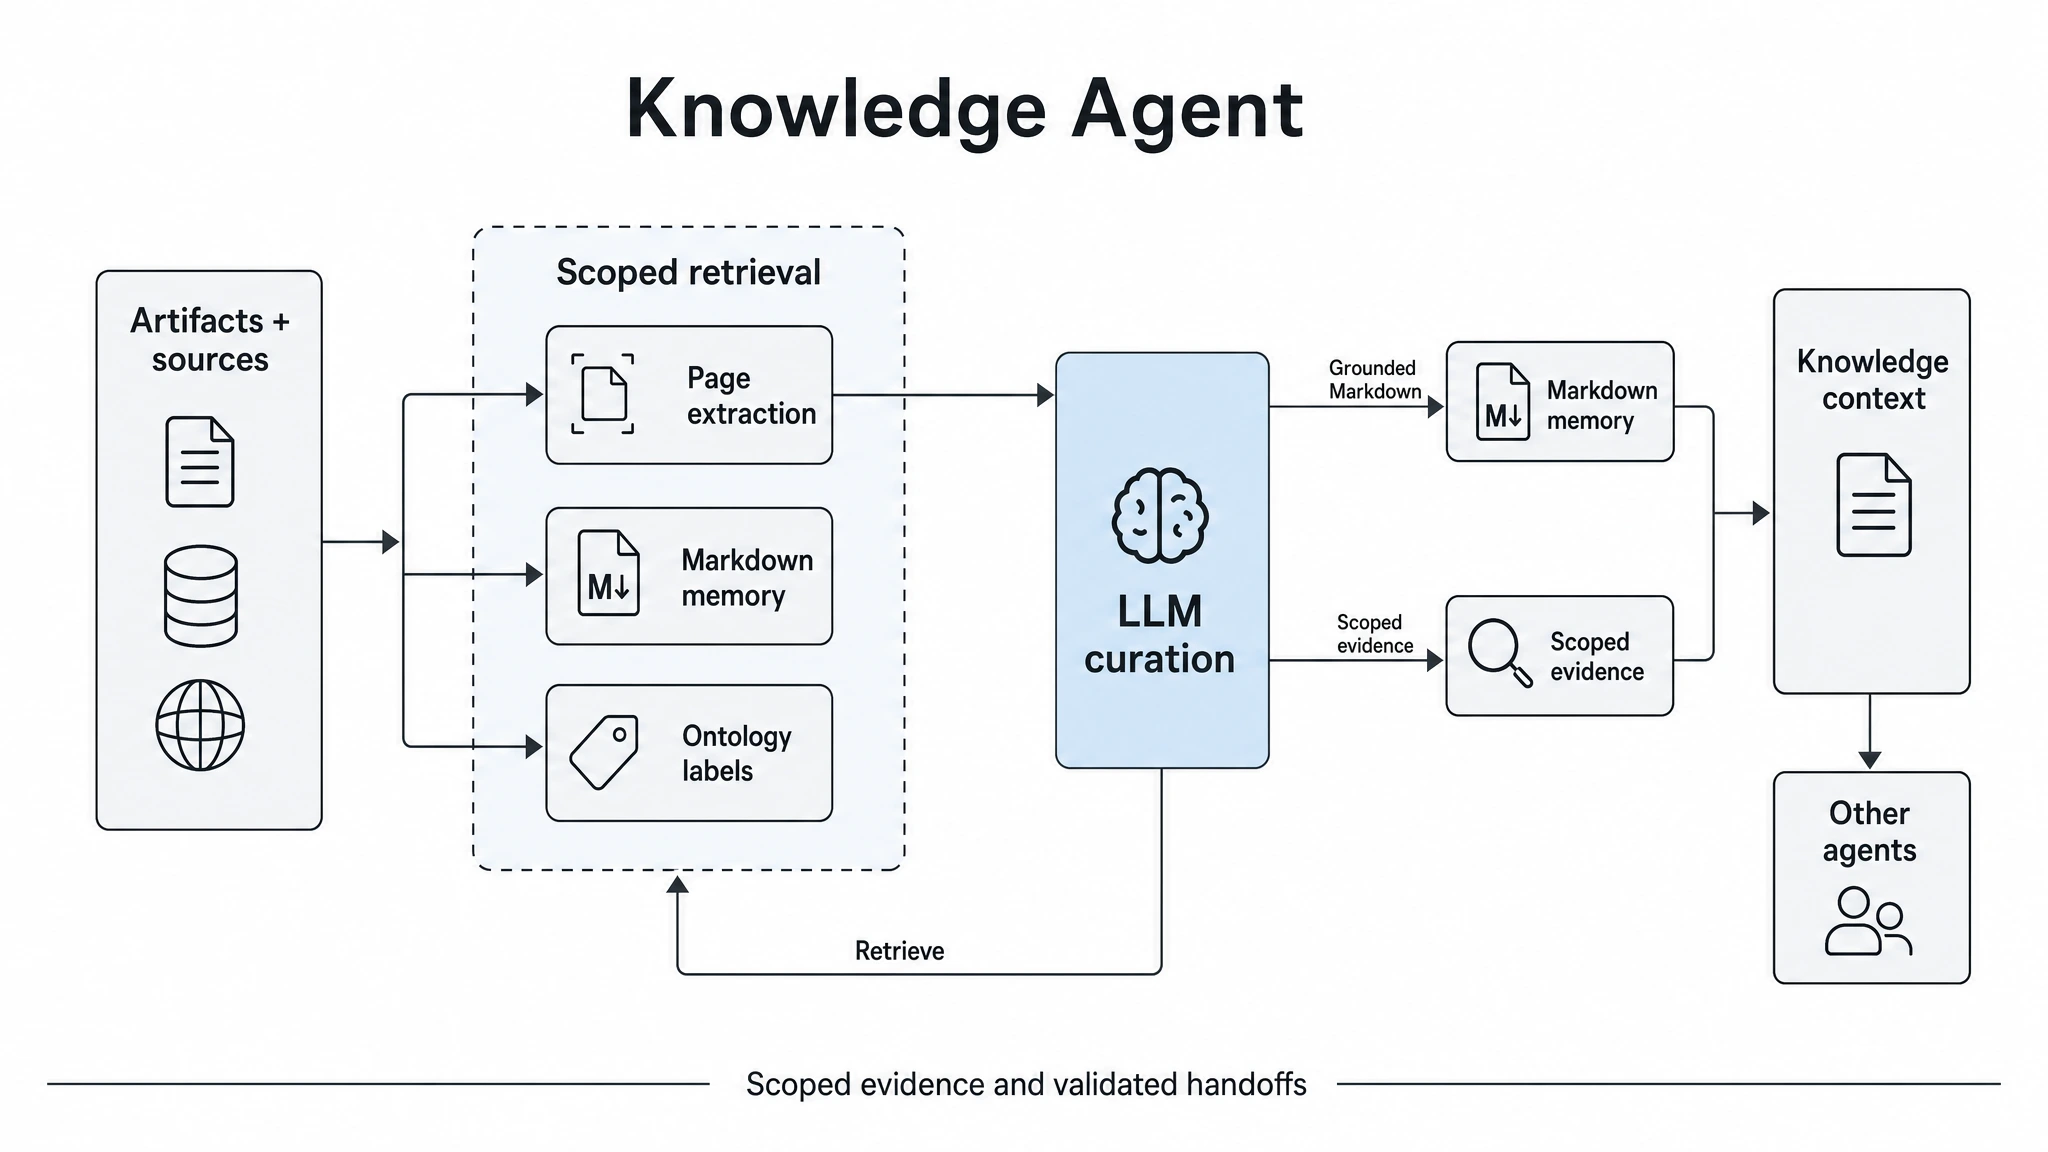
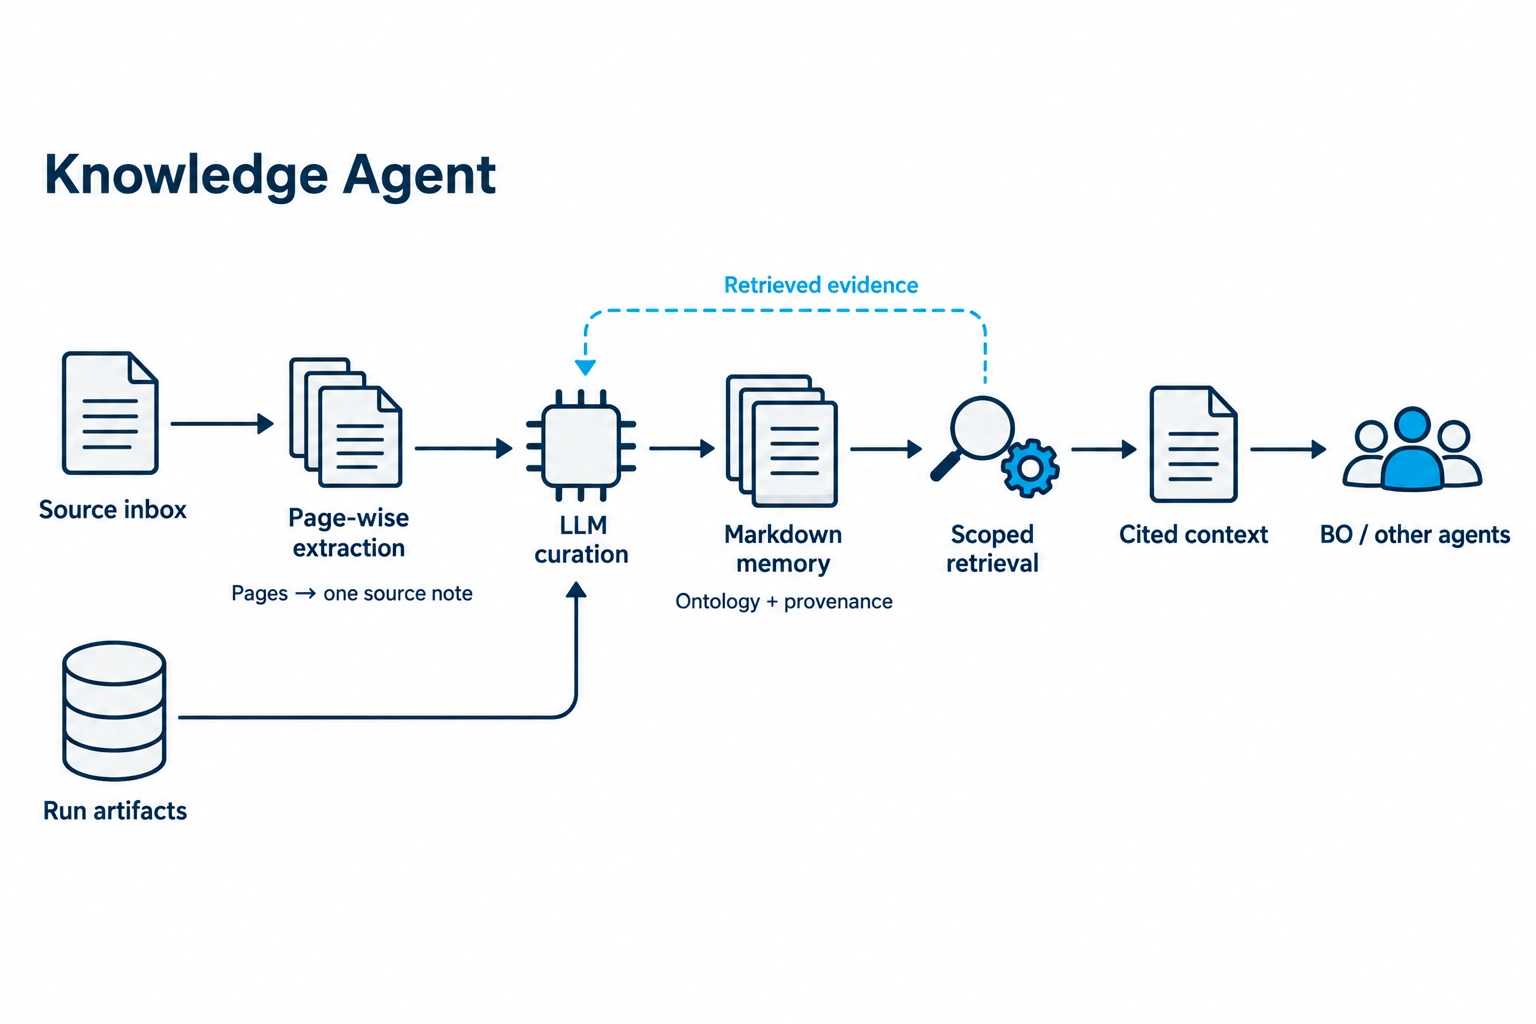
docs: refresh generated architecture figures with Image 2.5 Sunburst

diff --git a/docs/assets/presentation/README.md b/docs/assets/presentation/README.md
@@ -15,23 +15,34 @@ supersedes: []
 The representative images are conceptual architecture overviews. Exact runtime
 flows remain in the editable SVG/DOT figures in each agent reference.
 
-Generated through the imagegen skill's bundled CLI/API workflow, using
-**GPT Image 2** unless noted below, at 2048 × 1152 unless specified, high quality,
-WebP. No experiment images or numerical
-results were synthesized for the paper evidence package.
+The active generated figures use **GPT Image 2.5 Sunburst** through the imagegen
+skill's bundled CLI/API workflow: 1536 × 1024, high quality, WebP. No experiment
+images or numerical results were synthesized for the paper evidence package.
 
 | Asset | Prompt source | Used in |
 |---|---|---|
-| Multi-agent laboratory transformation | [Sunburst prompt](laboratory-transformation-sunburst.txt) · [Flat-style refinement](laboratory-transformation-sunburst-refinement.txt) · [Diagonal layout and bullet alignment](laboratory-transformation-sunburst-diagonal.txt) | Root README below the logo; GPT Image 2.5 Sunburst, 1536 × 1024, high quality, WebP; supplied layout sketch and AX4LAB logo as image inputs |
-| Previous existing-laboratory transformation (superseded) | [Transformation prompt](laboratory-transformation.txt) | Retained source history; GPT Image 2, 1920 × 960, no longer embedded in the root README |
-| Framework overview, agent architecture, integration architecture | [Three-figure prompts](architecture-figures.jsonl) | Root README System Architecture; three independent 1920 × 960 figures, high quality, WebP |
-| Previous combined architecture (superseded) | [Initial prompt](orchestration-plan-architecture.txt) · [Graph refinement](orchestration-plan-architecture-revision.txt) · [Label correction](orchestration-plan-architecture-label-fix.txt) | Retained source history; no longer embedded in the root README |
-| Structured AI laboratory overview | [Hero prompt](hero-structured-ai.txt) | Korean overview, paper introduction; replaced by the transformation figure in the root README |
-| Ten agent role diagrams | [Batch prompts](image-prompts.jsonl) | [Agent references](../../agents/README.md) |
-| Vision capture-first diagram | [Vision prompt](vision-correction.txt) | Vision reference; supersedes its initial batch image |
+| Multi-agent laboratory transformation | [Sunburst prompt](laboratory-transformation-sunburst.txt) · [Flat-style refinement](laboratory-transformation-sunburst-refinement.txt) · [Diagonal layout and bullet alignment](laboratory-transformation-sunburst-diagonal.txt) | Root README Graphical Abstract, Korean overview and paper introduction; approved image retained unchanged |
+| Framework overview, agent architecture, integration architecture | [Sunburst paper-figure prompts](sunburst-paper-figures.jsonl), entries 1–3 | Root README System Architecture |
+| Ten agent role diagrams | [Sunburst paper-figure prompts](sunburst-paper-figures.jsonl), entries 4–13; [Design handoff refinement](sunburst-design-handoff-refinement.txt) | [Agent references](../../agents/README.md); existing image paths retained |
 
 Final agent assets reside in [agent figures](../../agents/assets/figures/).
-The batch's initial low-cost hero is superseded by the structured-AI overview.
+
+## Paper-Figure Style
+
+- Flat technical pictograms on white, consistent navy outlines and cyan connections.
+- Short English labels, one sans-serif family, open layouts without enclosing cards.
+- Distinct reasoning, procedure, tool and evidence roles; arrows preserve actual ownership.
+- Role-specific layouts: peer-agent orchestration, terminal workflow review, and parallel FEM are not forced into one sequential template.
+
+The prompts were checked against the corresponding agent references. They retain
+optimizer authority over coordinates, capture before Vision review, terminated
+robot execution before result judgment, and measured handoff independent of FEM.
+Guardian's model review remains advisory to policy gates. These are conceptual
+responsibility diagrams, not new runtime paths or validation results.
+
+This refresh changes only generated raster figures and their documentation
+references. Existing SVG diagrams, measured plots, FEM contours, screenshots,
+branding files, and the approved Graphical Abstract are outside its scope.
 
 The root transformation figure adapts the conceptual shift in the author's
 2026-09-04 presentation: transform an existing laboratory instead of building
@@ -41,6 +52,16 @@ layout. Generic equipment categories connect through Device Bridge.
 The centered, left-aligned bullet list describes equipment reuse, integration
 from low-cost to general-purpose hardware, and multi-agent transformation, not a
 fixed execution sequence or measured deployment outcome.
+
+## Superseded Generation Sources
+
+Previous GPT Image 2 prompts and unused images are retained as source history,
+not active presentation figures:
+
+- [Original agent batch](image-prompts.jsonl) and [Vision correction](vision-correction.txt).
+- [Original architecture figures](architecture-figures.jsonl).
+- [Combined architecture](orchestration-plan-architecture.txt), [refinement](orchestration-plan-architecture-revision.txt), and [label correction](orchestration-plan-architecture-label-fix.txt).
+- [Structured-AI hero](hero-structured-ai.txt) and [earlier transformation](laboratory-transformation.txt).
 
 ## Presentation References
 

diff --git a/docs/paper/01_problem_and_contributions.md b/docs/paper/01_problem_and_contributions.md
@@ -92,11 +92,9 @@ with corresponding calibration and policy validation:
 | Closed-loop coordination | Carry results from design through testing into the next decision | [Method](03_closed_loop_method.md) |
 | Shared support | Preserve knowledge, execution evidence, and operational constraints | [Architecture](02_system_architecture.md) |
 
-![Existing equipment integrated into a closed research loop](../assets/presentation/structured-ai-lab.webp)
+![Existing laboratory transformation through multi-agent orchestration and device bridges](../assets/presentation/laboratory-transformation-sunburst.webp)
 
-*Conceptual overview. Structured software layers transform existing equipment
-into a research system; comparative hardware and fixture savings require a
-separate evaluation.*
+*Multi-agent orchestration connects existing laboratory equipment through device bridges.*
 
 ## Research Questions
 

diff --git a/docs/paper/README.md b/docs/paper/README.md
@@ -37,7 +37,7 @@ robot integration through LeRobot.
 [Results](06_evaluation_and_results.md) · [Reproduce](07_reproducibility.md) ·
 [Agent references](../agents/README.md) · [Device interfaces](../device_bridges/README.md)
 
-![Existing equipment connected through multi-agent orchestration](../assets/presentation/structured-ai-lab.webp)
+![AX4LAB transforms an existing laboratory through multi-agent orchestration and device bridges](../assets/presentation/laboratory-transformation-sunburst.webp)
 
 ## Abstract
 

diff --git a/README.ko.md b/README.ko.md
@@ -43,7 +43,7 @@ LeRobot을 통해 지원 로봇으로 교체할 수 있는 경계를 두되, 교
 [실증 결과](docs/paper/06_evaluation_and_results.md) ·
 [설치·운영](README.en.md) · [전체 문서](docs/README.md)
 
-![기존 장비를 연결하는 ATR 시스템](docs/assets/presentation/structured-ai-lab.webp)
+![기존 실험실을 멀티에이전트 기반으로 전환하는 AX4LAB](docs/assets/presentation/laboratory-transformation-sunburst.webp)
 
 ## 시스템 기여
 
